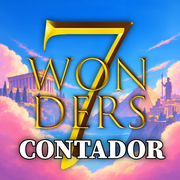
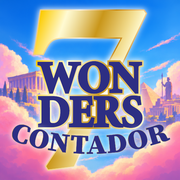
Add files via upload

diff --git a/index.html b/index.html
@@ -5,9 +5,9 @@
 <meta name="viewport" content="width=device-width, initial-scale=1, viewport-fit=cover">
 <meta name="theme-color" content="#0f1a2e">
 <link rel="manifest" href="manifest.json">
-<link rel="icon" type="image/png" sizes="32x32" href="icon-32.png?v=3">
-<link rel="icon" type="image/png" sizes="192x192" href="icon-192.png?v=3">
-<link rel="apple-touch-icon" href="apple-touch-icon.png?v=3">
+<link rel="icon" type="image/png" sizes="32x32" href="icon-32.png?v=4">
+<link rel="icon" type="image/png" sizes="192x192" href="icon-192.png?v=4">
+<link rel="apple-touch-icon" href="apple-touch-icon.png?v=4">
 <meta name="apple-mobile-web-app-capable" content="yes">
 <meta name="mobile-web-app-capable" content="yes">
 <meta name="apple-mobile-web-app-title" content="7 Wonders">
@@ -133,10 +133,14 @@ body{padding-top:0}
 @media (prefers-reduced-motion:no-preference){#splash img{animation:spz 3.2s ease-out both}@keyframes spz{from{transform:scale(1.06)}to{transform:scale(1)}}}
 
 .legal{max-width:520px;margin:10px auto 0;font-size:12.5px;line-height:1.45;letter-spacing:0;color:var(--mute);opacity:.85}
+
+.tap{position:absolute;left:0;right:0;bottom:calc(8% + env(safe-area-inset-bottom,0px));text-align:center;font-family:var(--ft);font-weight:700;font-size:16px;letter-spacing:.22em;text-transform:uppercase;color:#fff;text-shadow:0 2px 8px rgba(0,0,0,.65);opacity:0;pointer-events:none;transition:opacity .4s}
+.tap.show{opacity:1;animation:tapp 1.5s ease-in-out infinite}
+@keyframes tapp{50%{opacity:.4}}
 </style>
 </head>
 <body>
-<div id="splash" role="img" aria-label="7 Wonders Contador"><img src="splash.webp?v=1" alt="" decoding="async" fetchpriority="high"></div>
+<div id="splash" role="img" aria-label="7 Wonders Contador"><img src="splash.webp?v=1" alt="" decoding="async" fetchpriority="high"><div id="splashHint" class="tap">Toca para entrar</div></div>
 <div class="wrap" id="app"></div>
 <script>
 let askReset=false,askT=0;
@@ -236,12 +240,24 @@ document.addEventListener('change',e=>{const t=e.target;if(t.dataset.exp){S.exp[
 render();if(S.screen==='score')live();
 if('serviceWorker' in navigator&&location.protocol.startsWith('http'))navigator.serviceWorker.register('sw.js').catch(()=>{});
 
-(function(){var sp=document.getElementById('splash');if(!sp)return;var done=false,t0=Date.now(),img=sp.querySelector('img');
-function hide(){if(done)return;done=true;sp.classList.add('out');setTimeout(function(){sp.remove()},700)}
-function go(){setTimeout(hide,Math.max(0,2400-(Date.now()-t0)))}
-sp.addEventListener('click',hide);
-if(img.complete)go();else{img.addEventListener('load',go);img.addEventListener('error',hide)}
-setTimeout(hide,6000)})();
+(function(){var sp=document.getElementById('splash');if(!sp)return;
+var done=false,img=sp.querySelector('img'),hint=document.getElementById('splashHint');
+var au=new Audio('fanfare.mp3?v=1');au.preload='auto';
+var timer=0,waiting=false,playing=false;
+function hide(){if(done)return;done=true;clearTimeout(timer);
+ try{var v=au.volume,k=0,iv=setInterval(function(){k++;au.volume=Math.max(0,v*(1-k/8));if(k>=8){clearInterval(iv);au.pause()}},60)}catch(e){}
+ sp.classList.add('out');setTimeout(function(){sp.remove()},700)}
+function started(){playing=true;waiting=false;hint.classList.remove('show');clearTimeout(timer);
+ var d=(isFinite(au.duration)&&au.duration>0)?au.duration:4.8;timer=setTimeout(hide,Math.max(2400,d*1000-700))}
+function blocked(){waiting=true;hint.classList.add('show')}
+function go(){var p;try{p=au.play()}catch(e){}
+ if(p&&p.then){p.then(started).catch(blocked)}else{timer=setTimeout(hide,2400)}}
+sp.addEventListener('click',function(){
+ if(waiting){waiting=false;hint.classList.remove('show');var p;try{p=au.play()}catch(e){}
+  if(p&&p.then)p.then(started).catch(function(){timer=setTimeout(hide,1200)});else timer=setTimeout(hide,1200);return}
+ hide()});
+if(img.complete)go();else{img.addEventListener('load',go);img.addEventListener('error',function(){timer=setTimeout(hide,2400)})}
+setTimeout(function(){if(!playing&&!waiting)hide()},7000)})();
 </script>
 </body>
 </html>

diff --git a/sw.js b/sw.js
@@ -1,5 +1,5 @@
-const CACHE='sw7-contador-v13';
-const FILES=['./','./index.html','./manifest.json','./icon-192.png?v=3','./icon-512.png?v=3','./apple-touch-icon.png?v=3','./splash.webp?v=1'];
+const CACHE='sw7-contador-v15';
+const FILES=['./','./index.html','./manifest.json','./icon-192.png?v=4','./icon-512.png?v=4','./apple-touch-icon.png?v=4','./splash.webp?v=1','./fanfare.mp3?v=1'];
 self.addEventListener('install',e=>{e.waitUntil(caches.open(CACHE).then(c=>c.addAll(FILES)).then(()=>self.skipWaiting()))});
 self.addEventListener('activate',e=>{e.waitUntil(caches.keys().then(k=>Promise.all(k.filter(x=>x!==CACHE).map(x=>caches.delete(x)))).then(()=>self.clients.claim()))});
 self.addEventListener('fetch',e=>{
